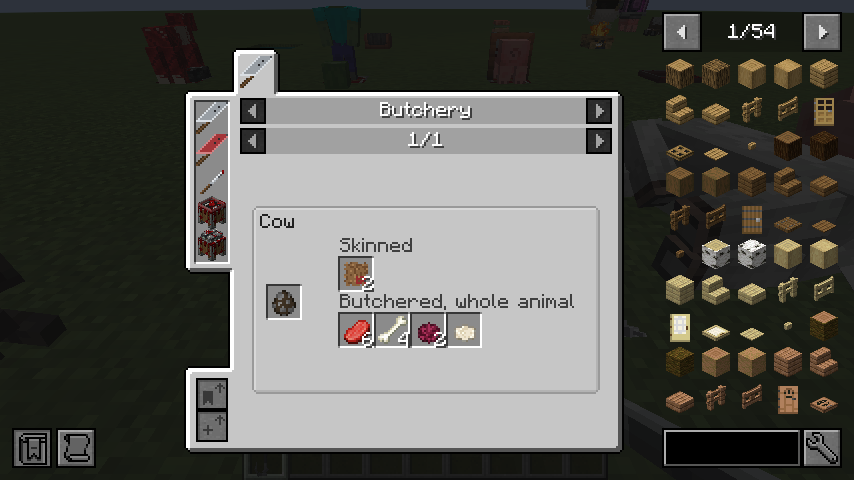
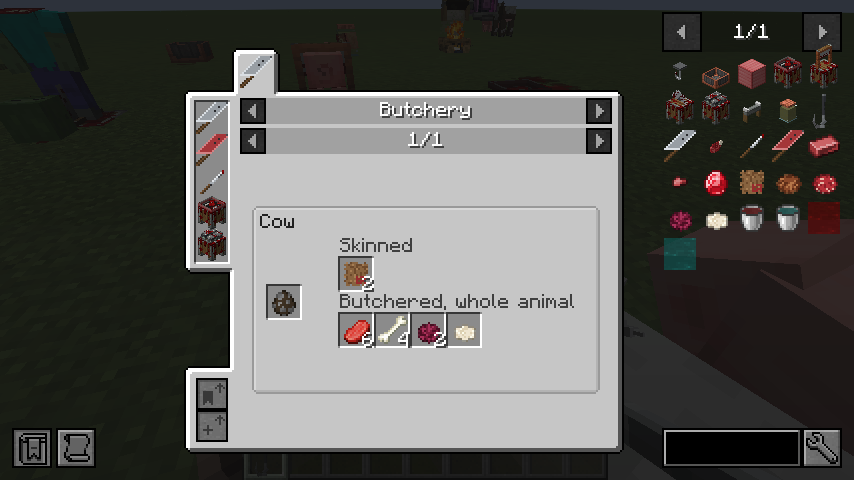
Showcase: the JEI shot also lists every item of the mod
Filters JEI's item list to @bloodandbones before photographing the
cow's Butchery page, so every item icon is checked on screen too.

Claude-Session: https://claude.ai/code/session_01VFhLqCRBB9EnozqpaTh1tP

diff --git a/src/main/java/com/avicagan/bloodandbones/client/DevShowcase.java b/src/main/java/com/avicagan/bloodandbones/client/DevShowcase.java
@@ -187,6 +187,8 @@ public final class DevShowcase {
                         mc.setScreen(null);
                         // the cow's page: what a cow's carcass gives
                         var jei = com.avicagan.bloodandbones.compat.jei.BBJeiPlugin.runtime;
+                        // and every item of this mod in the list beside it, to see their icons
+                        jei.getIngredientFilter().setFilterText("@bloodandbones");
                         jei.getRecipesGui().show(jei.getJeiHelpers().getFocusFactory().createFocus(
                                 mezz.jei.api.recipe.RecipeIngredientRole.INPUT, mezz.jei.api.constants.VanillaTypes.ITEM_STACK,
                                 new ItemStack(net.minecraft.world.item.Items.COW_SPAWN_EGG)));
